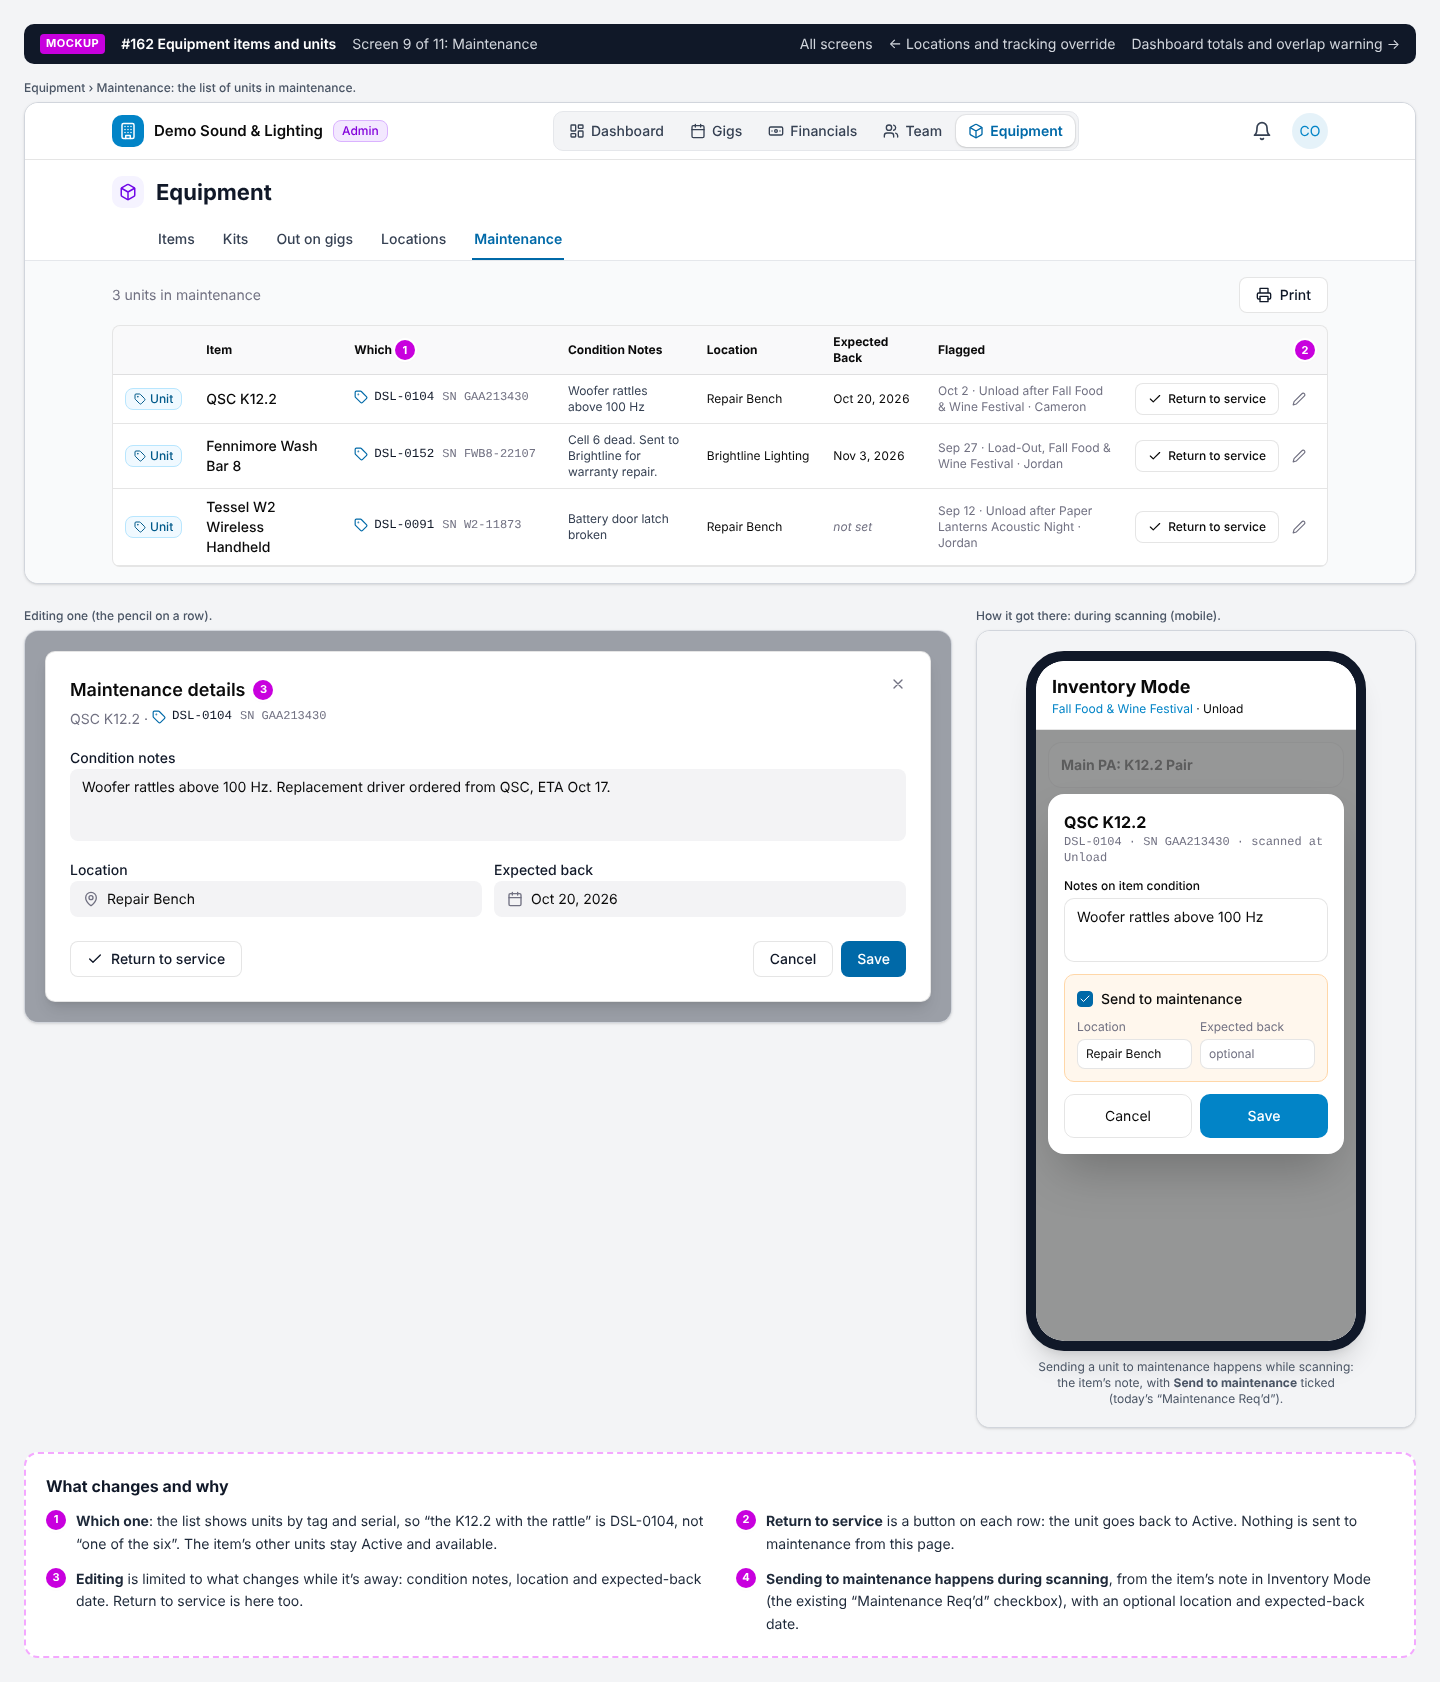
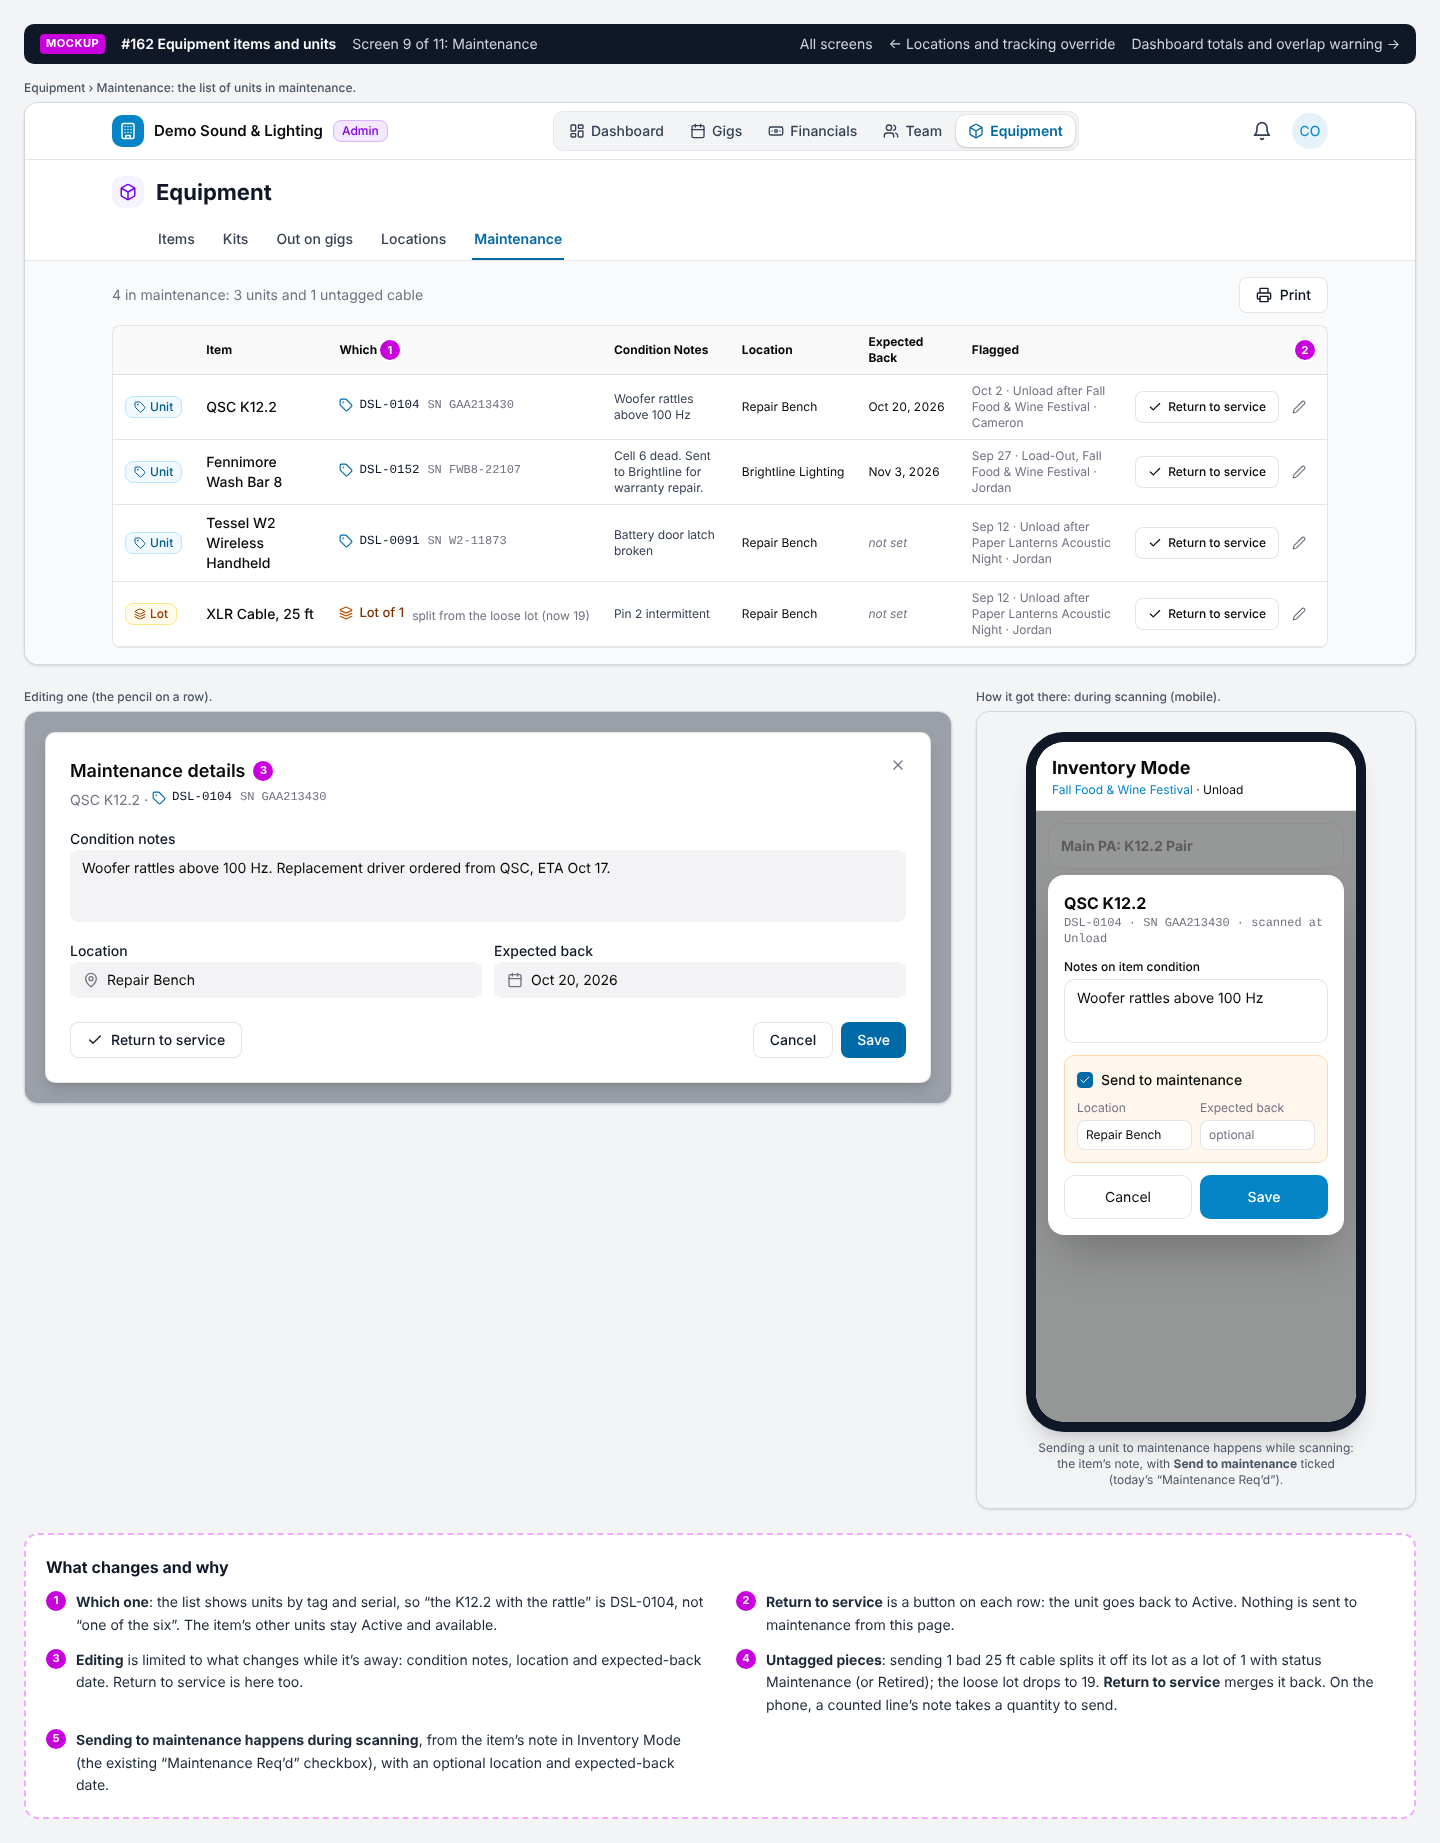
docs(design): untagged pieces go to maintenance by splitting the lot (#162 review)
Cameron, 10-07: an untagged piece can be sent to maintenance; the lot
splits into an Active lot and a Maintenance (or Retired) lot. Screen 9
shows a lot of 1 split from the loose 25 ft lot; Return to service
merges it back.

Claude-Session: https://claude.ai/code/session_013gAYYf2hpcECG9QpxFz5Vo

diff --git a/docs/design/mockups/equipment-units/09-maintenance.html b/docs/design/mockups/equipment-units/09-maintenance.html
@@ -27,7 +27,7 @@
       <div class="flex min-w-0 flex-1 flex-wrap items-center gap-x-3 gap-y-1"><h1 class="truncate text-[22px] font-bold leading-7 text-gray-900">Equipment</h1></div>
       <div class="flex flex-none flex-wrap items-center justify-end gap-2"></div>
     </div><div class="-mt-1 overflow-x-auto pl-11"><div role="tablist" class="flex h-10 items-stretch gap-6"><span role="tab" class="inline-flex items-center gap-1.5 whitespace-nowrap border-b-2 border-transparent px-0.5 text-sm font-medium text-gray-700">Items</span><span role="tab" class="inline-flex items-center gap-1.5 whitespace-nowrap border-b-2 border-transparent px-0.5 text-sm font-medium text-gray-700">Kits</span><span role="tab" class="inline-flex items-center gap-1.5 whitespace-nowrap border-b-2 border-transparent px-0.5 text-sm font-medium text-gray-700">Out on gigs</span><span role="tab" class="inline-flex items-center gap-1.5 whitespace-nowrap border-b-2 border-transparent px-0.5 text-sm font-medium text-gray-700">Locations</span><span role="tab" class="inline-flex items-center gap-1.5 whitespace-nowrap border-b-2 px-0.5 text-sm border-sky-700 font-semibold text-sky-700">Maintenance</span></div></div>
-  </div></div><div class="bg-gray-50"><div class="max-w-7xl mx-auto px-4 sm:px-6 lg:px-8 py-4 "><div class="mb-3 flex items-center justify-between"><span class="text-sm text-muted-foreground">3 units in maintenance</span><button class="inline-flex items-center justify-center gap-2 whitespace-nowrap rounded-md text-sm font-medium h-9 px-4 border bg-background hover:bg-accent text-gray-900 h-8"><svg class="ic h-4 w-4" viewBox="0 0 24 24" aria-hidden="true"><path d="M6 9V2h12v7M6 18H4a2 2 0 0 1-2-2v-5a2 2 0 0 1 2-2h16a2 2 0 0 1 2 2v5a2 2 0 0 1-2 2h-2"/><rect x="6" y="14" width="12" height="8"/></svg>Print</button></div>
+  </div></div><div class="bg-gray-50"><div class="max-w-7xl mx-auto px-4 sm:px-6 lg:px-8 py-4 "><div class="mb-3 flex items-center justify-between"><span class="text-sm text-muted-foreground">4 in maintenance: 3 units and 1 untagged cable</span><button class="inline-flex items-center justify-center gap-2 whitespace-nowrap rounded-md text-sm font-medium h-9 px-4 border bg-background hover:bg-accent text-gray-900 h-8"><svg class="ic h-4 w-4" viewBox="0 0 24 24" aria-hidden="true"><path d="M6 9V2h12v7M6 18H4a2 2 0 0 1-2-2v-5a2 2 0 0 1 2-2h16a2 2 0 0 1 2 2v5a2 2 0 0 1-2 2h-2"/><rect x="6" y="14" width="12" height="8"/></svg>Print</button></div>
 <div class="rounded-md border overflow-hidden bg-white"><table class="w-full text-sm">
 <thead><tr class="border-b bg-muted/30 text-left text-xs font-semibold"><th class="px-3 py-2"></th><th class="px-3 py-2">Item</th><th class="px-3 py-2">Which <span class="inline-flex h-5 min-w-5 items-center justify-center rounded-full bg-fuchsia-600 px-1.5 text-[11px] font-bold text-white ring-2 ring-white shadow" title="See note 1">1</span></th><th class="px-3 py-2">Condition Notes</th><th class="px-3 py-2">Location</th><th class="px-3 py-2">Expected Back</th><th class="px-3 py-2">Flagged</th><th class="px-3 py-2 text-right"><span class="inline-flex h-5 min-w-5 items-center justify-center rounded-full bg-fuchsia-600 px-1.5 text-[11px] font-bold text-white ring-2 ring-white shadow" title="See note 2">2</span></th></tr></thead><tbody>
 <tr class="border-b"><td class="px-3 py-2 align-middle w-16"><span class="inline-flex items-center justify-center gap-1 whitespace-nowrap rounded-md border px-2 py-0.5 text-xs font-medium bg-sky-50 text-sky-800 border-sky-200"><svg class="ic h-3 w-3" viewBox="0 0 24 24" aria-hidden="true"><path d="M12.59 2.59A2 2 0 0 0 11.17 2H4a2 2 0 0 0-2 2v7.17a2 2 0 0 0 .59 1.41l8.7 8.7a2.43 2.43 0 0 0 3.42 0l6.58-6.58a2.43 2.43 0 0 0 0-3.42z"/><circle cx="7.5" cy="7.5" r=".5"/></svg>Unit</span></td><td class="px-3 py-2 align-middle font-medium">QSC K12.2</td><td class="px-3 py-2 align-middle whitespace-nowrap"><span class="mr-2 inline-flex items-center"><span class="inline-flex items-center gap-1.5 whitespace-nowrap font-mono text-[12.5px] text-gray-900"><svg class="ic h-3.5 w-3.5 text-sky-700" viewBox="0 0 24 24" aria-hidden="true"><path d="M12.59 2.59A2 2 0 0 0 11.17 2H4a2 2 0 0 0-2 2v7.17a2 2 0 0 0 .59 1.41l8.7 8.7a2.43 2.43 0 0 0 3.42 0l6.58-6.58a2.43 2.43 0 0 0 0-3.42z"/><circle cx="7.5" cy="7.5" r=".5"/></svg>DSL-0104</span><span class="ml-2 whitespace-nowrap font-mono text-[12px] text-muted-foreground">SN GAA213430</span></span></td><td class="px-3 py-2 align-middle text-xs text-gray-700 max-w-[220px]">Woofer rattles above 100 Hz</td><td class="px-3 py-2 align-middle text-xs whitespace-nowrap">Repair Bench</td><td class="px-3 py-2 align-middle text-xs whitespace-nowrap"><span class="tabular-nums">Oct 20, 2026</span></td><td class="px-3 py-2 align-middle text-xs text-muted-foreground">Oct 2 · Unload after Fall Food &amp; Wine Festival · Cameron</td>
@@ -35,6 +35,8 @@
 <tr class="border-b"><td class="px-3 py-2 align-middle w-16"><span class="inline-flex items-center justify-center gap-1 whitespace-nowrap rounded-md border px-2 py-0.5 text-xs font-medium bg-sky-50 text-sky-800 border-sky-200"><svg class="ic h-3 w-3" viewBox="0 0 24 24" aria-hidden="true"><path d="M12.59 2.59A2 2 0 0 0 11.17 2H4a2 2 0 0 0-2 2v7.17a2 2 0 0 0 .59 1.41l8.7 8.7a2.43 2.43 0 0 0 3.42 0l6.58-6.58a2.43 2.43 0 0 0 0-3.42z"/><circle cx="7.5" cy="7.5" r=".5"/></svg>Unit</span></td><td class="px-3 py-2 align-middle font-medium">Fennimore Wash Bar 8</td><td class="px-3 py-2 align-middle whitespace-nowrap"><span class="mr-2 inline-flex items-center"><span class="inline-flex items-center gap-1.5 whitespace-nowrap font-mono text-[12.5px] text-gray-900"><svg class="ic h-3.5 w-3.5 text-sky-700" viewBox="0 0 24 24" aria-hidden="true"><path d="M12.59 2.59A2 2 0 0 0 11.17 2H4a2 2 0 0 0-2 2v7.17a2 2 0 0 0 .59 1.41l8.7 8.7a2.43 2.43 0 0 0 3.42 0l6.58-6.58a2.43 2.43 0 0 0 0-3.42z"/><circle cx="7.5" cy="7.5" r=".5"/></svg>DSL-0152</span><span class="ml-2 whitespace-nowrap font-mono text-[12px] text-muted-foreground">SN FWB8-22107</span></span></td><td class="px-3 py-2 align-middle text-xs text-gray-700 max-w-[220px]">Cell 6 dead. Sent to Brightline for warranty repair.</td><td class="px-3 py-2 align-middle text-xs whitespace-nowrap">Brightline Lighting</td><td class="px-3 py-2 align-middle text-xs whitespace-nowrap"><span class="tabular-nums">Nov 3, 2026</span></td><td class="px-3 py-2 align-middle text-xs text-muted-foreground">Sep 27 · Load-Out, Fall Food &amp; Wine Festival · Jordan</td>
 <td class="px-3 py-2 align-middle whitespace-nowrap text-right"><span class="inline-flex h-8 items-center gap-1.5 rounded-md border bg-white px-3 text-xs font-medium"><svg class="ic h-3.5 w-3.5" viewBox="0 0 24 24" aria-hidden="true"><path d="M20 6 9 17l-5-5"/></svg>Return to service</span><span class="ml-1 inline-flex h-8 w-8 items-center justify-center rounded-md text-muted-foreground"><svg class="ic h-3.5 w-3.5" viewBox="0 0 24 24" aria-hidden="true"><path d="M17 3a2.85 2.83 0 1 1 4 4L7.5 20.5 2 22l1.5-5.5Z"/></svg></span></td></tr>
 <tr class="border-b"><td class="px-3 py-2 align-middle w-16"><span class="inline-flex items-center justify-center gap-1 whitespace-nowrap rounded-md border px-2 py-0.5 text-xs font-medium bg-sky-50 text-sky-800 border-sky-200"><svg class="ic h-3 w-3" viewBox="0 0 24 24" aria-hidden="true"><path d="M12.59 2.59A2 2 0 0 0 11.17 2H4a2 2 0 0 0-2 2v7.17a2 2 0 0 0 .59 1.41l8.7 8.7a2.43 2.43 0 0 0 3.42 0l6.58-6.58a2.43 2.43 0 0 0 0-3.42z"/><circle cx="7.5" cy="7.5" r=".5"/></svg>Unit</span></td><td class="px-3 py-2 align-middle font-medium">Tessel W2 Wireless Handheld</td><td class="px-3 py-2 align-middle whitespace-nowrap"><span class="mr-2 inline-flex items-center"><span class="inline-flex items-center gap-1.5 whitespace-nowrap font-mono text-[12.5px] text-gray-900"><svg class="ic h-3.5 w-3.5 text-sky-700" viewBox="0 0 24 24" aria-hidden="true"><path d="M12.59 2.59A2 2 0 0 0 11.17 2H4a2 2 0 0 0-2 2v7.17a2 2 0 0 0 .59 1.41l8.7 8.7a2.43 2.43 0 0 0 3.42 0l6.58-6.58a2.43 2.43 0 0 0 0-3.42z"/><circle cx="7.5" cy="7.5" r=".5"/></svg>DSL-0091</span><span class="ml-2 whitespace-nowrap font-mono text-[12px] text-muted-foreground">SN W2-11873</span></span></td><td class="px-3 py-2 align-middle text-xs text-gray-700 max-w-[220px]">Battery door latch broken</td><td class="px-3 py-2 align-middle text-xs whitespace-nowrap">Repair Bench</td><td class="px-3 py-2 align-middle text-xs whitespace-nowrap"><span class="italic text-muted-foreground">not set</span></td><td class="px-3 py-2 align-middle text-xs text-muted-foreground">Sep 12 · Unload after Paper Lanterns Acoustic Night · Jordan</td>
+<td class="px-3 py-2 align-middle whitespace-nowrap text-right"><span class="inline-flex h-8 items-center gap-1.5 rounded-md border bg-white px-3 text-xs font-medium"><svg class="ic h-3.5 w-3.5" viewBox="0 0 24 24" aria-hidden="true"><path d="M20 6 9 17l-5-5"/></svg>Return to service</span><span class="ml-1 inline-flex h-8 w-8 items-center justify-center rounded-md text-muted-foreground"><svg class="ic h-3.5 w-3.5" viewBox="0 0 24 24" aria-hidden="true"><path d="M17 3a2.85 2.83 0 1 1 4 4L7.5 20.5 2 22l1.5-5.5Z"/></svg></span></td></tr>
+<tr class="border-b"><td class="px-3 py-2 align-middle w-16"><span class="inline-flex items-center justify-center gap-1 whitespace-nowrap rounded-md border px-2 py-0.5 text-xs font-medium bg-amber-50 text-amber-800 border-amber-200"><svg class="ic h-3 w-3" viewBox="0 0 24 24" aria-hidden="true"><path d="m12.83 2.18a2 2 0 0 0-1.66 0L2.6 6.08a1 1 0 0 0 0 1.83l8.58 3.91a2 2 0 0 0 1.66 0l8.58-3.9a1 1 0 0 0 0-1.83Z"/><path d="m22 17.65-9.17 4.16a2 2 0 0 1-1.66 0L2 17.65M22 12.65l-9.17 4.16a2 2 0 0 1-1.66 0L2 12.65"/></svg>Lot</span></td><td class="px-3 py-2 align-middle font-medium">XLR Cable, 25 ft</td><td class="px-3 py-2 align-middle whitespace-nowrap"><span class="inline-flex items-center gap-1.5 text-[13px] font-medium text-amber-900"><svg class="ic h-3.5 w-3.5 text-amber-700" viewBox="0 0 24 24" aria-hidden="true"><path d="m12.83 2.18a2 2 0 0 0-1.66 0L2.6 6.08a1 1 0 0 0 0 1.83l8.58 3.91a2 2 0 0 0 1.66 0l8.58-3.9a1 1 0 0 0 0-1.83Z"/><path d="m22 17.65-9.17 4.16a2 2 0 0 1-1.66 0L2 17.65M22 12.65l-9.17 4.16a2 2 0 0 1-1.66 0L2 12.65"/></svg>Lot of 1</span><span class="ml-2 text-xs text-muted-foreground">split from the loose lot (now 19)</span></td><td class="px-3 py-2 align-middle text-xs text-gray-700 max-w-[220px]">Pin 2 intermittent</td><td class="px-3 py-2 align-middle text-xs whitespace-nowrap">Repair Bench</td><td class="px-3 py-2 align-middle text-xs whitespace-nowrap"><span class="italic text-muted-foreground">not set</span></td><td class="px-3 py-2 align-middle text-xs text-muted-foreground">Sep 12 · Unload after Paper Lanterns Acoustic Night · Jordan</td>
 <td class="px-3 py-2 align-middle whitespace-nowrap text-right"><span class="inline-flex h-8 items-center gap-1.5 rounded-md border bg-white px-3 text-xs font-medium"><svg class="ic h-3.5 w-3.5" viewBox="0 0 24 24" aria-hidden="true"><path d="M20 6 9 17l-5-5"/></svg>Return to service</span><span class="ml-1 inline-flex h-8 w-8 items-center justify-center rounded-md text-muted-foreground"><svg class="ic h-3.5 w-3.5" viewBox="0 0 24 24" aria-hidden="true"><path d="M17 3a2.85 2.83 0 1 1 4 4L7.5 20.5 2 22l1.5-5.5Z"/></svg></span></td></tr>
 </tbody></table></div></div></div></div><div class="grid grid-cols-[1fr_440px] gap-6 items-start"><div><p class="mb-1.5 text-xs font-medium text-gray-600">Editing one (the pencil on a row).</p><div class="rounded-xl border border-gray-300 overflow-hidden bg-gray-50 shadow-sm"><div class="bg-slate-900/40 p-5"><div class="w-full rounded-lg border bg-white p-6 shadow-lg"><div class="flex items-start justify-between"><div><h2 class="text-lg font-semibold flex items-center gap-2">Maintenance details <span class="inline-flex h-5 min-w-5 items-center justify-center rounded-full bg-fuchsia-600 px-1.5 text-[11px] font-bold text-white ring-2 ring-white shadow" title="See note 3">3</span></h2><p class="mt-1 text-sm text-muted-foreground">QSC K12.2 · <span class="mr-2 inline-flex items-center"><span class="inline-flex items-center gap-1.5 whitespace-nowrap font-mono text-[12.5px] text-gray-900"><svg class="ic h-3.5 w-3.5 text-sky-700" viewBox="0 0 24 24" aria-hidden="true"><path d="M12.59 2.59A2 2 0 0 0 11.17 2H4a2 2 0 0 0-2 2v7.17a2 2 0 0 0 .59 1.41l8.7 8.7a2.43 2.43 0 0 0 3.42 0l6.58-6.58a2.43 2.43 0 0 0 0-3.42z"/><circle cx="7.5" cy="7.5" r=".5"/></svg>DSL-0104</span><span class="ml-2 whitespace-nowrap font-mono text-[12px] text-muted-foreground">SN GAA213430</span></span></p></div><svg class="ic h-4 w-4 text-muted-foreground" viewBox="0 0 24 24" aria-hidden="true"><path d="M18 6 6 18M6 6l12 12"/></svg></div>
 <div class="mt-4 space-y-4">
@@ -52,7 +54,7 @@
 <div class="grid grid-cols-2 gap-2"><span class="flex h-11 items-center justify-center rounded-lg border text-sm">Cancel</span><span class="flex h-11 items-center justify-center rounded-lg text-sm font-medium text-white" style="background:#0284c7">Save</span></div></div></div></div></div><figcaption class="text-xs text-gray-600 max-w-[320px] text-center">Sending a unit to maintenance happens while scanning: the item’s note, with <b>Send to maintenance</b> ticked (today’s “Maintenance Req’d”).</figcaption></figure></div></div></div></div></main>
 <section class="mt-6 rounded-xl border-2 border-dashed border-fuchsia-300 bg-white p-5">
   <h2 class="text-base font-bold text-gray-900">What changes and why</h2>
-  <div class="mt-3 grid gap-x-8 gap-y-3 text-sm text-gray-800 md:grid-cols-2"><div class="flex gap-2.5"><span class="inline-flex h-5 min-w-5 items-center justify-center rounded-full bg-fuchsia-600 px-1.5 text-[11px] font-bold text-white ring-2 ring-white shadow" title="See note 1">1</span><div class="leading-relaxed"><b>Which one</b>: the list shows units by tag and serial, so “the K12.2 with the rattle” is DSL-0104, not “one of the six”. The item’s other units stay Active and available.</div></div><div class="flex gap-2.5"><span class="inline-flex h-5 min-w-5 items-center justify-center rounded-full bg-fuchsia-600 px-1.5 text-[11px] font-bold text-white ring-2 ring-white shadow" title="See note 2">2</span><div class="leading-relaxed"><b>Return to service</b> is a button on each row: the unit goes back to Active. Nothing is sent to maintenance from this page.</div></div><div class="flex gap-2.5"><span class="inline-flex h-5 min-w-5 items-center justify-center rounded-full bg-fuchsia-600 px-1.5 text-[11px] font-bold text-white ring-2 ring-white shadow" title="See note 3">3</span><div class="leading-relaxed"><b>Editing</b> is limited to what changes while it’s away: condition notes, location and expected-back date. Return to service is here too.</div></div><div class="flex gap-2.5"><span class="inline-flex h-5 min-w-5 items-center justify-center rounded-full bg-fuchsia-600 px-1.5 text-[11px] font-bold text-white ring-2 ring-white shadow" title="See note 4">4</span><div class="leading-relaxed"><b>Sending to maintenance happens during scanning</b>, from the item’s note in Inventory Mode (the existing “Maintenance Req’d” checkbox), with an optional location and expected-back date.</div></div></div>
+  <div class="mt-3 grid gap-x-8 gap-y-3 text-sm text-gray-800 md:grid-cols-2"><div class="flex gap-2.5"><span class="inline-flex h-5 min-w-5 items-center justify-center rounded-full bg-fuchsia-600 px-1.5 text-[11px] font-bold text-white ring-2 ring-white shadow" title="See note 1">1</span><div class="leading-relaxed"><b>Which one</b>: the list shows units by tag and serial, so “the K12.2 with the rattle” is DSL-0104, not “one of the six”. The item’s other units stay Active and available.</div></div><div class="flex gap-2.5"><span class="inline-flex h-5 min-w-5 items-center justify-center rounded-full bg-fuchsia-600 px-1.5 text-[11px] font-bold text-white ring-2 ring-white shadow" title="See note 2">2</span><div class="leading-relaxed"><b>Return to service</b> is a button on each row: the unit goes back to Active. Nothing is sent to maintenance from this page.</div></div><div class="flex gap-2.5"><span class="inline-flex h-5 min-w-5 items-center justify-center rounded-full bg-fuchsia-600 px-1.5 text-[11px] font-bold text-white ring-2 ring-white shadow" title="See note 3">3</span><div class="leading-relaxed"><b>Editing</b> is limited to what changes while it’s away: condition notes, location and expected-back date. Return to service is here too.</div></div><div class="flex gap-2.5"><span class="inline-flex h-5 min-w-5 items-center justify-center rounded-full bg-fuchsia-600 px-1.5 text-[11px] font-bold text-white ring-2 ring-white shadow" title="See note 4">4</span><div class="leading-relaxed"><b>Untagged pieces</b>: sending 1 bad 25 ft cable splits it off its lot as a lot of 1 with status Maintenance (or Retired); the loose lot drops to 19. <b>Return to service</b> merges it back. On the phone, a counted line’s note takes a quantity to send.</div></div><div class="flex gap-2.5"><span class="inline-flex h-5 min-w-5 items-center justify-center rounded-full bg-fuchsia-600 px-1.5 text-[11px] font-bold text-white ring-2 ring-white shadow" title="See note 5">5</span><div class="leading-relaxed"><b>Sending to maintenance happens during scanning</b>, from the item’s note in Inventory Mode (the existing “Maintenance Req’d” checkbox), with an optional location and expected-back date.</div></div></div>
 </section>
 </body>
 </html>
